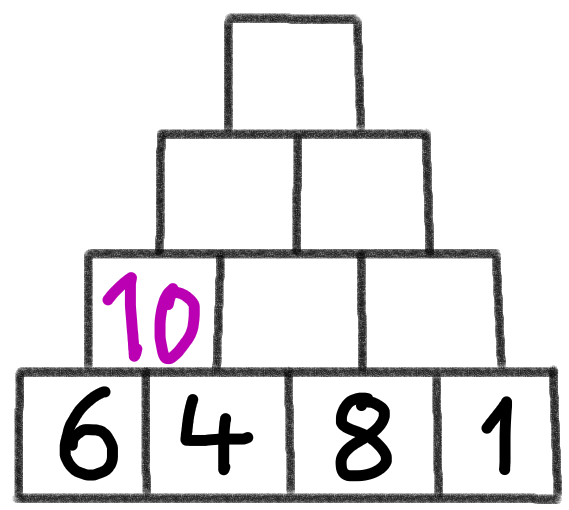
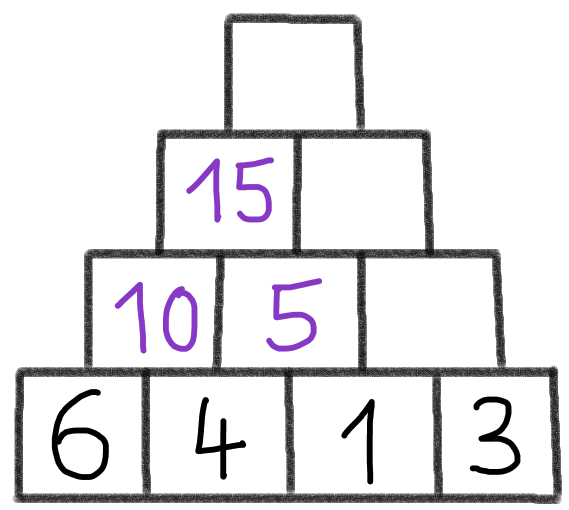
fine-tuning

diff --git a/lib/data.tsx b/lib/data.tsx
@@ -188,23 +188,24 @@ export const storyData: { [key: number]: StoryData } = {
     render: ({ onSubmit, feedback }) => (
       <>
         <p>
-          Ich schaue Teo zu, wie er zwei Dreiecke einzeichnet. Für sein Alter
-          kann er ziemlich ordentlich mit dem Lineal umgehen.
+          Ich schaue Teo zu, wie er zwei Dreiecke zeichnet. Für sein Alter kann
+          er ordentlich mit dem Lineal umgehen.
         </p>
         <img
           src="story6.png"
           alt="Ein großes Dreieck mit einem eingeschlossenen kleinen Dreieck"
+          className="w-[350px]"
         ></img>
         <p>
           Er deutet auf das Bild und sagt: &quot;Schau mal, zwei Dreiecke!&quot;
         </p>
         <p>
-          Ich muss schmunzeln, denn es sind viel mehr als zwei Dreiecke. Wie
-          viele Dreiecke kannst du sehen?
+          Ich schmunzle, denn es sind viel mehr als zwei Dreiecke. Wie viele
+          Dreiecke kannst du sehen?
         </p>
       </>
     ),
-    submit: ignoreCaseSolution('8'),
+    submit: ignoreCaseSolution('8', ['acht']),
   },
   7: {
     title: 'Pfoten',
@@ -236,16 +237,17 @@ export const storyData: { [key: number]: StoryData } = {
     render: ({ onSubmit, feedback }) => (
       <>
         <p>
-          Teo ist erst in der 1. Klasse. Es ist mir gelungen, ihm beizubringen,
-          wie man mit dem Geo-Dreieck Winkel misst. In diesem Dreieck hat er
-          schon zwei Winkel gemessen.
+          Teo ist erst in der 1. Klasse. Ich konnte ihm bereits beibringen, wie
+          man mit dem Geo-Dreieck Winkel misst. In diesem Dreieck hat er schon
+          zwei Winkel gemessen.
         </p>
         <img
           src="story8.png"
           alt="Ein Dreieck mit Innenwinkel 46 und 60 Grad"
         />
         <p>
-          Jetzt möchte ich ihn mit meinen Mathe-Kenntnissen überraschen. Ich
+          Ich habe in der Schule gelernt, dass die Summe der drei Winkel eines
+          Dreiecks immer 180 Grad beträgt. Damit möchte ich ihn überraschen. Ich
           sage ihm: &quot;Ich kann den Winkel mit bloßen Augen ablesen!&quot;
           und flüstere ihm das Ergebnis.
         </p>
@@ -290,13 +292,13 @@ export const storyData: { [key: number]: StoryData } = {
     render: ({ onSubmit, feedback }) => (
       <>
         <p>
-          Ich schaue Teo gerne bei seinen Hausaufgaben zu, weil er so putzig ist
-          und seine Aufgaben so leicht sind.
+          Ich schaue Teo bei seinen Hausaufgaben zu, weil er so putzig ist und
+          seine Aufgaben so leicht sind.
         </p>
         <p>
           Heute gibt es eine Rechenmauer. Dabei addiert man immer die zwei
-          Zahlen unterhalb eines Felds. Als große Schwester schaffe ich es
-          natürlich im Kopf!
+          Zahlen unterhalb eines Felds. Das macht auch seiner großen Schwester
+          Spaß!
         </p>
         <img
           alt="Zahlenpyramide mit Grundreihe 6, 4, 8, 1 und Addition"
@@ -306,7 +308,7 @@ export const storyData: { [key: number]: StoryData } = {
         <p>Welche Zahl steht im obersten Feld?</p>
       </>
     ),
-    submit: ignoreCaseSolution('43'),
+    submit: ignoreCaseSolution('24'),
   },
   11: {
     title: 'Melonen',
@@ -396,13 +398,13 @@ export const storyData: { [key: number]: StoryData } = {
         </p>
         <p>
           Ich schmunzle, denn die Mathematik hat da eine andere Antwort: Alle
-          Zahlen von 1 bis 6 kommen gleich oft vor.
+          Zahlen von 1 bis 6 kommen gleich oft vor. Das sieht anders aus, wenn
+          man mit zwei Würfel gleichzeitig würfelt und die Augen addiert.
         </p>
-        <img src="story14.png" alt="Deko: zwei Würfel" />
+        <img src="story14.png" alt="Deko: zwei Würfel" className="w-[400px]" />
         <p>
-          Das sieht anders aus, wenn man mit zwei Würfel gleichzeitig würfelt
-          und sich die Summe anschaut. Dann gibt es eine Zahl, die häufiger
-          vorkommt als alle anderen. Welche ist es?
+          Du siehst in der Tabelle alle möglichen Kombinationen. Darin gibt es
+          eine Zahl, die häufiger vorkommt als alle anderen. Welche ist es?
         </p>
       </>
     ),

diff --git a/components/App.tsx b/components/App.tsx
@@ -58,7 +58,7 @@ export default function App() {
       sessionStorage.setItem('einhorn_der_mathematik_userid', core.userId)
     }
     if (window.location.hash == '#analyze') {
-      const cutOff = new Date('2023-10-18')
+      const cutOff = new Date('2023-10-20')
       const password =
         sessionStorage.getItem('einhorn_der_mathematik_analyze_pw') ||
         prompt('Passwort') ||
@@ -321,15 +321,15 @@ export default function App() {
                     />
                   </>
                 )}
-                {core.analyze && (
-                  <div>
-                    Eingaben: {core.analyze.inputs[core.showStory]?.join(', ')}
-                  </div>
-                )}
               </div>
             </>
           )}
         </div>
+        {core.analyze && (
+          <div className="mt-24 mx-4 text-gray-500">
+            Eingaben: {core.analyze.inputs[core.showStory]?.join(', ')}
+          </div>
+        )}
         {core.modal == 'name' && (
           <NameModal
             onClose={() => {
